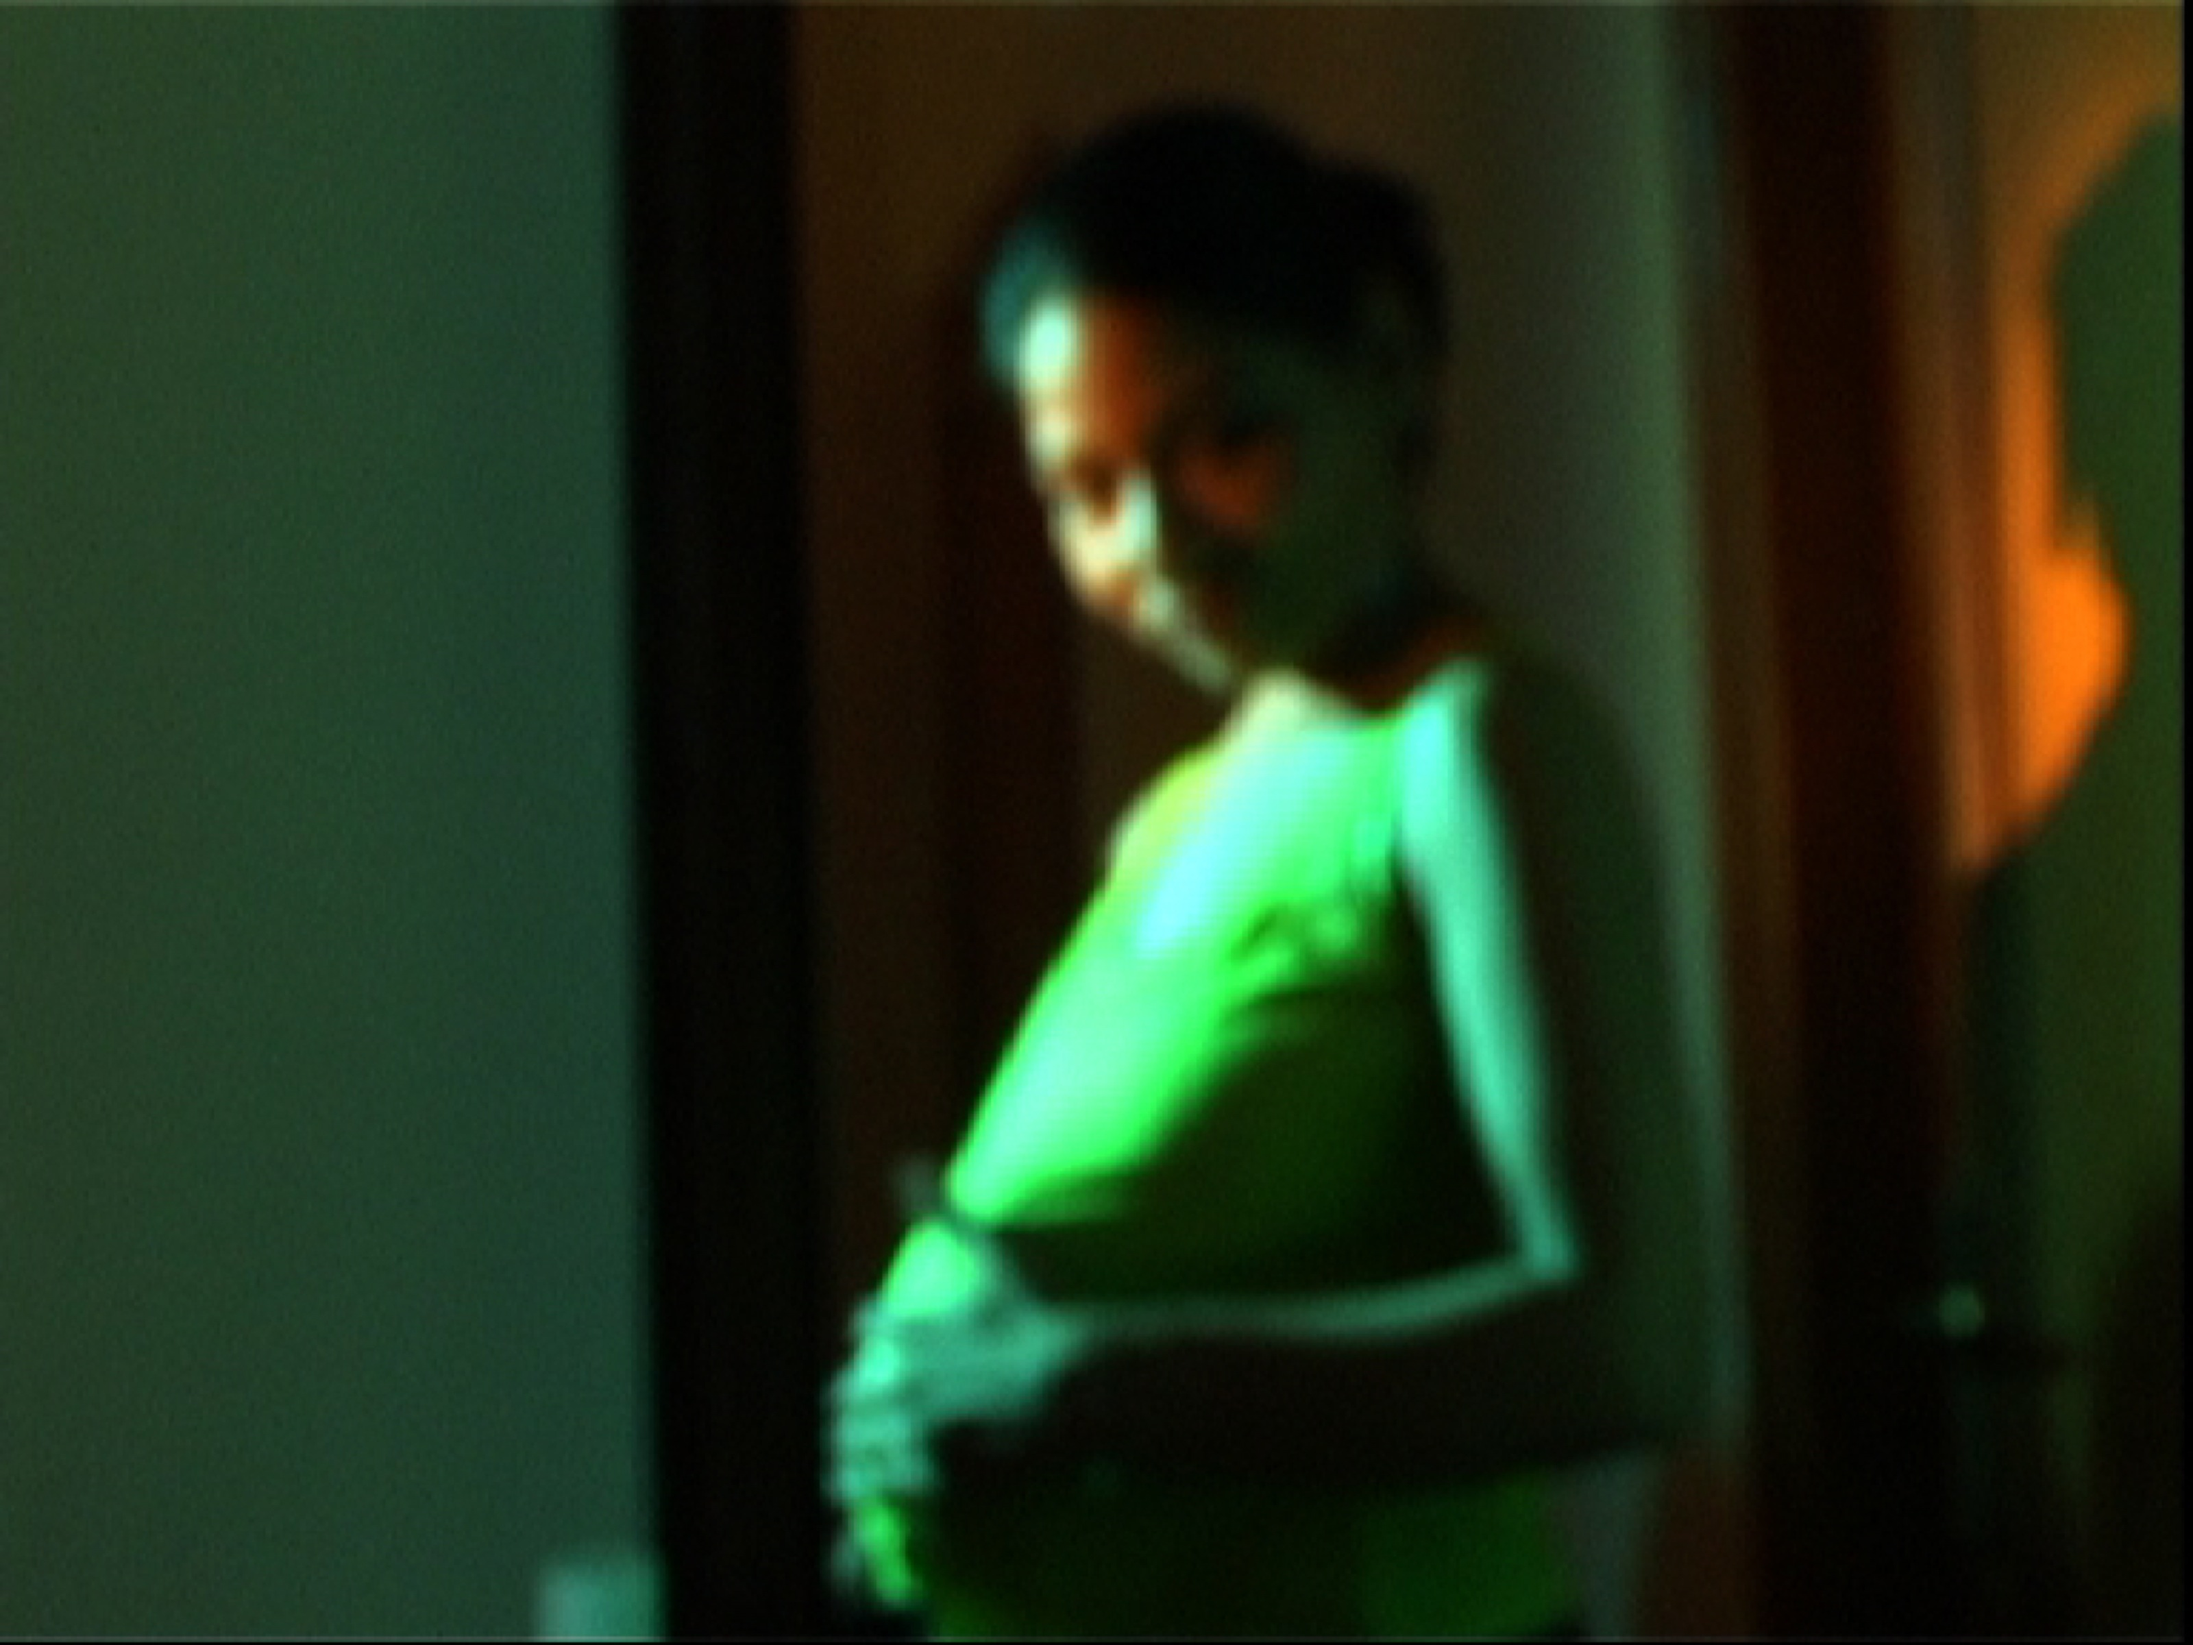
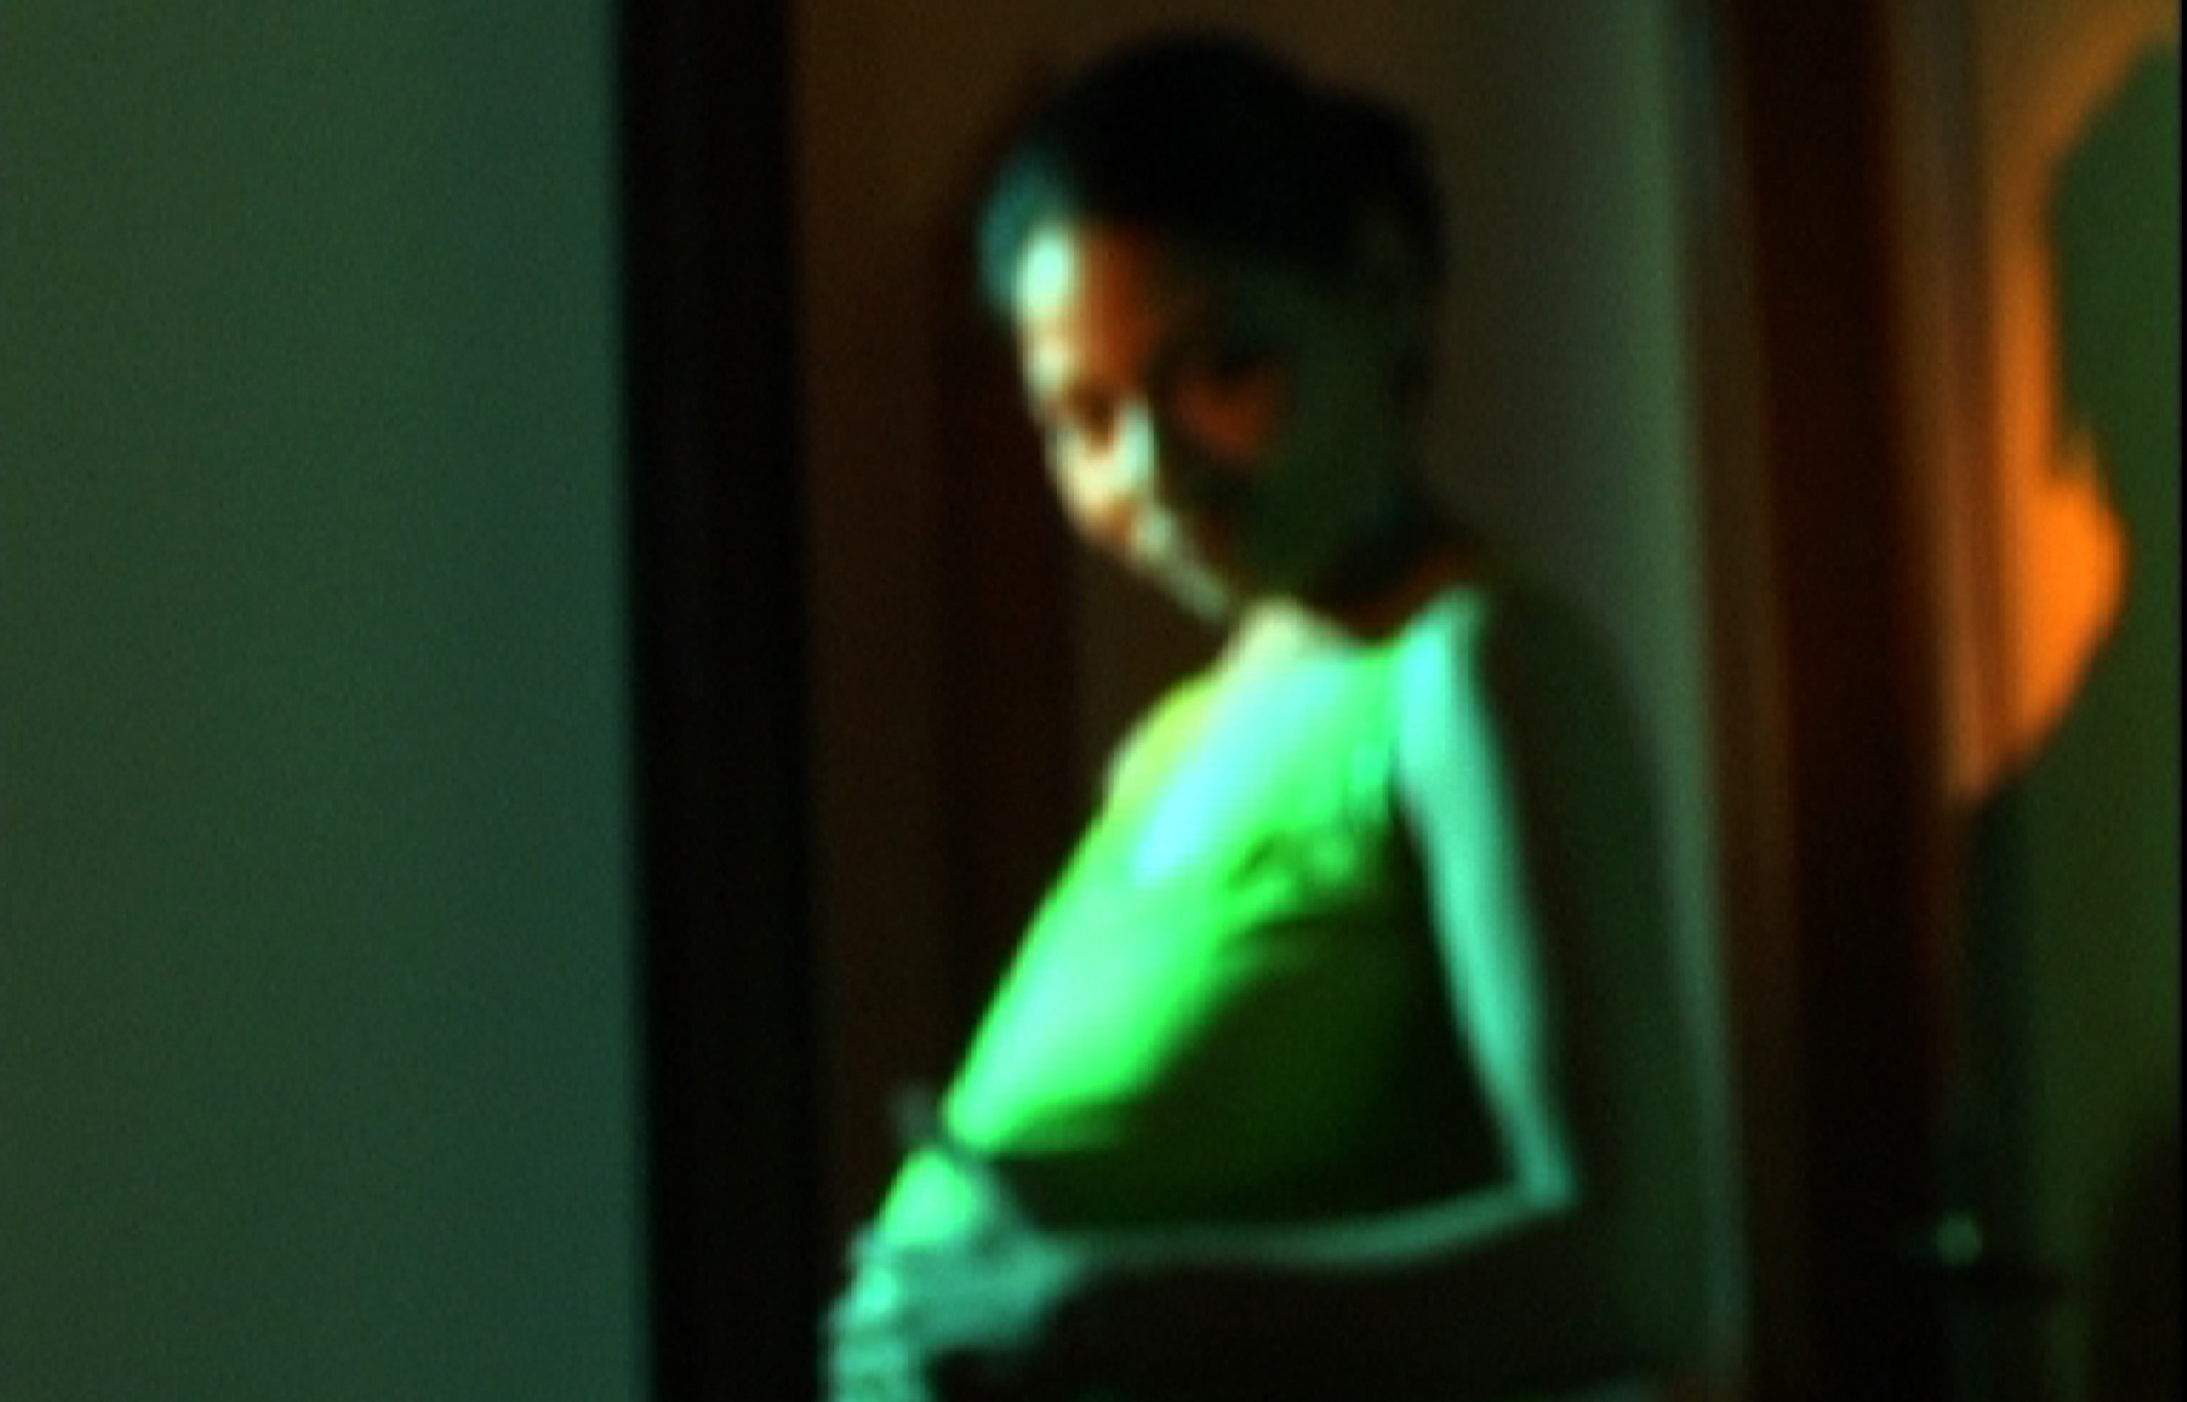
Added form

diff --git a/contact.html b/contact.html
@@ -86,12 +86,38 @@
                             </div>
                         </div>
                     </div>
-                    <div class="col-lg-9">
+                </div>
 
+
+                <div class="section-top-border">
+                    <div class="row">
+                        <div class="col-lg-8 col-md-8">
+                            <h3 class="mb-30 title_color">Message me:</h3>
+                            <form action="https://formspree.io/xzbbzqya"
+                      method="POST">
+                                <div class="mt-1">
+                                    <input type="text" name="first_name" placeholder="First Name" onfocus="this.placeholder = ''" onblur="this.placeholder = 'First Name'" required class="single-input">
+                                </div>
+                                <div class="mt-1">
+                                    <input type="email" name="EMAIL" placeholder="Email address" onfocus="this.placeholder = ''" onblur="this.placeholder = 'Email address'" required class="single-input">
+                                </div>
+                                <div class="mt-1">
+                                    <textarea class="single-textarea" placeholder="Message" onfocus="this.placeholder = ''" onblur="this.placeholder = 'Message'" required></textarea>
+                                </div>
+
+
+                                <div class="button-group-area mt-40">
+                                <input type="submit" value="Submit" class="genric-btn primary e-large"></a>
+                    
+                                </div>
+                                
+                                </form>
+                            </div>
+                        </div>
                     </div>
                 </div>
-            </div>
         </section>
+
         <!--================Contact Area =================-->
         
         <!--================Instagram Area =================-->
@@ -101,7 +127,7 @@
                     <a href="#"><img src="img/instagram/1.jpg" alt=""></a>
                     <a href="#"><img src="img/instagram/2.jpeg" alt=""></a>
                     <a href="#"><img src="img/instagram/3.jpg" alt=""></a>
-                    <a href="#"><img src="img/instagram/4.bmp" alt=""></a>
+                    <a href="#"><img src="img/instagram/4.BMP" alt=""></a>
                     <a href="#"><img src="img/instagram/5.jpg" alt=""></a>
                     <a href="#"><img src="img/instagram/6.jpg" alt=""></a>
                 </div>

diff --git a/index.html b/index.html
@@ -93,7 +93,7 @@
                             <img src="img/film/play.jpg" alt="">
                             <div class="hover">
                                 <a href="play.html"><h4>Play</h4></a>
-                                <a class="light" href="img/film/play.jpg"><i class="fa fa-expand"></i></a>
+                                <a class="light" href="img/film/play1.jpg"><i class="fa fa-expand"></i></a>
                             </div>
                         </div>
                     </div>
